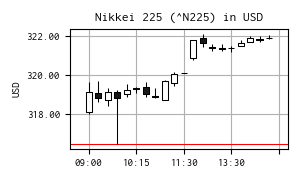
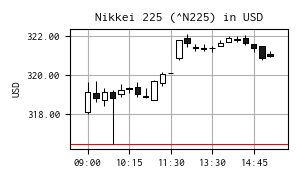
update

diff --git a/modules/prophet.py b/modules/prophet.py
@@ -197,7 +197,7 @@ class Prophet(QMainWindow):
             """
             ティックファイル・リスト
             """
-            self.list_tick = self.toolbar.getListTicks(reverse=False)[-10:-3]
+            self.list_tick = self.toolbar.getListTicks(reverse=False)[-20:-10]
             self.idx_tick = 0
             self.start_mode_doe()
         else:
